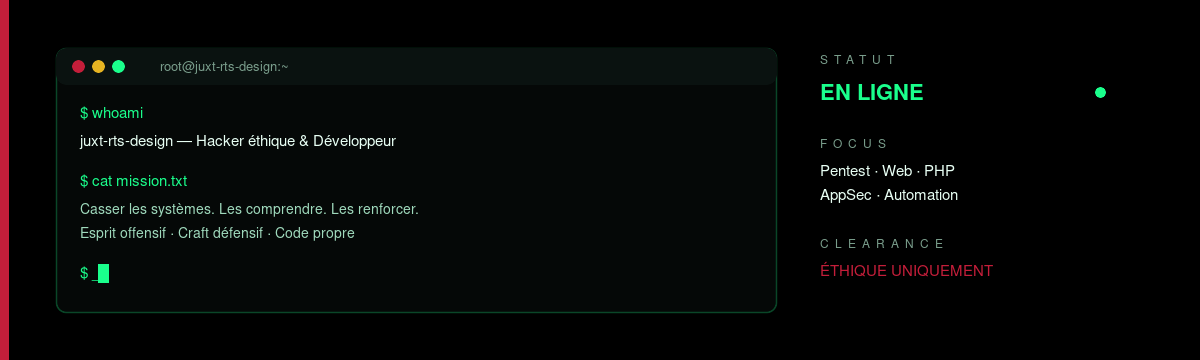
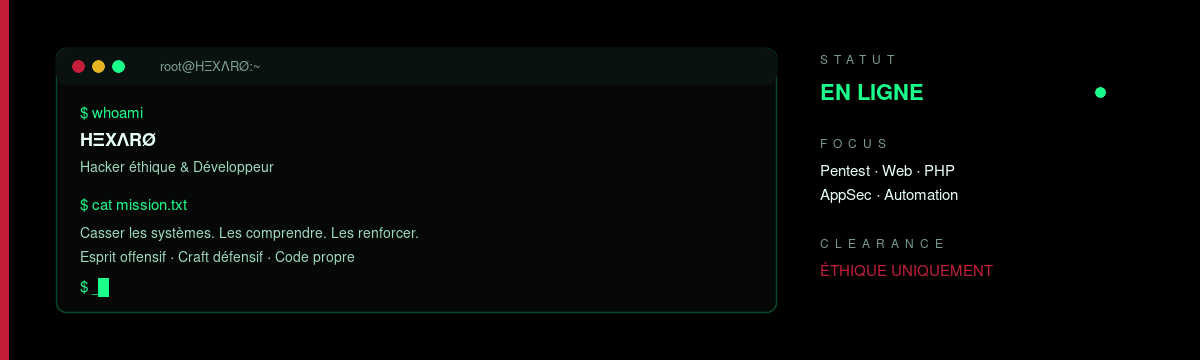
feat: rebrand affichage en HΞXΛRØ partout

diff --git a/README.md b/README.md
@@ -131,8 +131,8 @@ $ echo "Ouvre une issue sur GitHub"
 
 <div align="center">
 
-[![GitHub](https://img.shields.io/badge/GitHub-juxt--rts--design-1aff8c?style=for-the-badge&logo=github&logoColor=1aff8c&labelColor=0a1210)](https://github.com/juxt-rts-design)
+[![GitHub](https://img.shields.io/badge/GitHub-H%CE%9EX%CE%9AR%C3%98-1aff8c?style=for-the-badge&logo=github&logoColor=1aff8c&labelColor=0a1210)](https://github.com/juxt-rts-design)
 
-`[EOF] — reste curieux, reste éthique.`
+`[EOF] — reste curieux, reste éthique. — HΞXΛRØ`
 
 </div>
